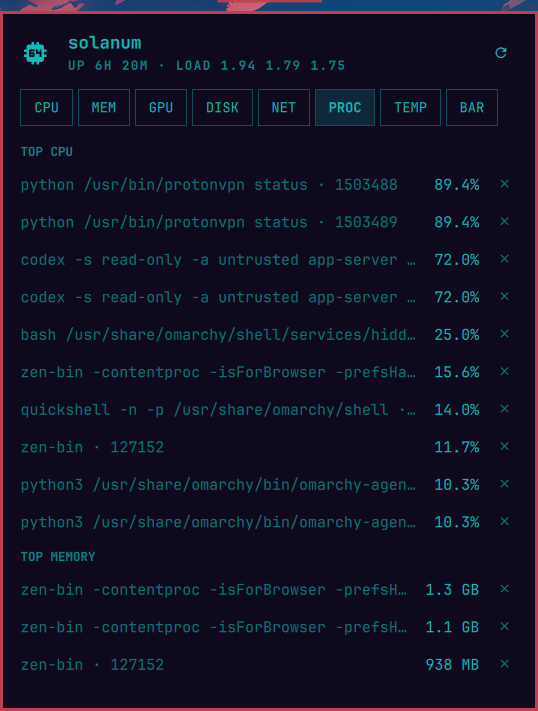
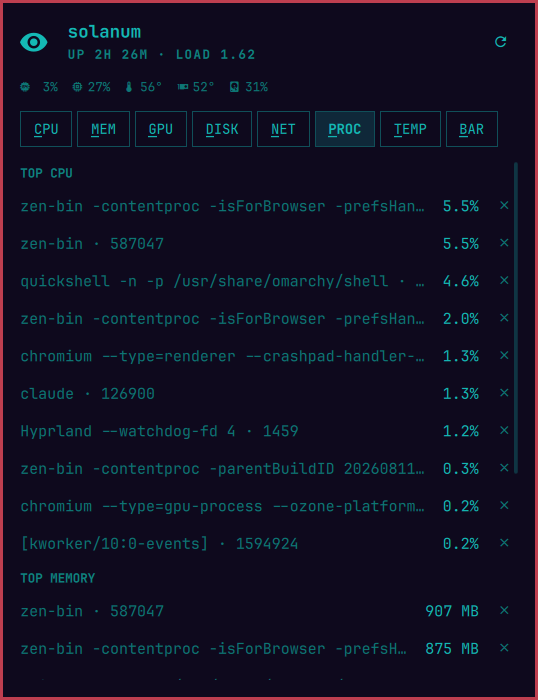
Refresh screenshots to the 0.8.0 UI, reorganize the README
All tab captures and the Okomart preview now show the watch row,
grouped TEMP sensors, per-process GPU, and the flat BAR tab. README:
alert behavior consolidated into one Alerts section (firing rules,
attribution, per-sensor thresholds, hook), sampling cost moved next to
the sampling internals, fixture contribution moved to the end.

Claude-Session: https://claude.ai/code/session_01SLbV1xcSEFZ6oc2p5b9Jci

diff --git a/README.md b/README.md
@@ -25,7 +25,7 @@ order in the panel's **BAR** tab; the choice persists to
 - **PROC** — top processes by CPU and by memory (full command lines), each with a terminate button (SIGTERM, after confirmation)
 - **TEMP** — every hwmon sensor, grouped by device with friendly names (CPU, GPU, NVMe with drive model, RAM, Wi-Fi, …), plus fan speeds; each sensor row can carry its own alert threshold, set inline, and noisy sensors can be hidden (hidden sensors keep alerting)
 - **BAT** — per-battery charge, status, power draw, health, and time estimate (tab appears only when a system battery exists)
-- **BAR** — toggles and reorder arrows for which metrics the bar shows, plus the last few fired alerts with timestamps; CPU and memory alerts name the process that likely caused them, and the CPU/MEM/GPU sparklines mark where in the history an alert fired
+- **BAR** — toggles and reorder arrows for which metrics the bar shows, the last few fired alerts with timestamps, and Argus's own measured sampling cost
 
 A watch row under the host name keeps every vital — CPU, RAM, CPU/GPU
 temperature, disk, battery — visible on every tab. A vital turns urgent
@@ -102,11 +102,30 @@ fallback for the CPU/GPU thresholds. Load average turns urgent when the
 discharging. Drive temperature is alert-only (it has no bar segment) and
 watches the hottest NVMe/SATA sensor.
 
-On top of those defaults, **any individual sensor** can carry its own
-alert threshold, set from the TEMP tab: the  button on a sensor row opens
-a stepper (−/+/off). A sensor over its limit renders its row in the urgent
-color and fires a notification with the usual 3-tick hold and cooldown.
-These persist in shell.json as a `sensorThresholds` map keyed by
+## Alerts
+
+With `alerts` on, a metric that stays past its urgent threshold for three
+consecutive ticks fires one desktop notification (via `notify-send`, so it
+renders through the Omarchy shell). Temperature and battery alerts use
+critical urgency; usage alerts are normal. Each metric then stays quiet
+for a 5-minute cooldown. Alerts evaluate every sampled metric, whether or
+not its bar segment is shown.
+
+CPU and memory alerts name their likely culprit — *"CPU usage at 100%
+(threshold 90%) — chromium 61%"* — from a process snapshot taken the
+moment the alert fires. A drive whose SMART health turns bad (critical
+warning, ≥90% wear, or media errors) alerts once per session.
+
+The last ten fired alerts are kept, with timestamps, at the bottom of the
+BAR tab — for the "did anything trip while I was away?" question that a
+vanished notification can't answer — and the CPU/MEM/GPU sparklines mark
+where in the history each alert fired.
+
+On top of the default thresholds, **any individual sensor** can carry its
+own alert threshold, set from the TEMP tab: the  button on a sensor row
+opens a stepper (−/+/off). A sensor over its limit renders its row in the
+urgent color and fires a notification with the usual 3-tick hold and
+cooldown. These persist in shell.json as a `sensorThresholds` map keyed by
 `chip|device|label`, so they survive reboots and hwmon renumbering.
 
 ### Alert hook
@@ -122,26 +141,6 @@ page a webhook:
 ```json
 "alertCommand": "curl -s -d \"$ARGUS_ALERT_TEXT\" https://ntfy.sh/my-box"
 ```
-
-### Argus's own cost
-
-The BAR tab shows what sampling actually costs (wall clock per tick,
-measured, not promised). The shell never blocks on it, and most of the
-wall time is the hwmon sensor bus itself — Super I/O chips take
-milliseconds per reading in the kernel — while the sampler's own CPU
-cost is ~10ms per tick (values are read with zero-fork bash builtins).
-
-## Alerts
-
-With `alerts` on, a metric that stays past its urgent threshold for three
-consecutive ticks fires one desktop notification (via `notify-send`, so it
-renders through the Omarchy shell), e.g. *"CPU temperature at 92°
-(threshold 85°)"*. Temperature and battery alerts use critical urgency;
-usage alerts are normal. Each metric then stays quiet for a 5-minute
-cooldown. Alerts evaluate every sampled metric, whether or not its bar
-segment is shown. The last ten fired alerts are kept, with timestamps, at
-the bottom of the BAR tab — for the "did anything trip while I was away?"
-question that a vanished notification can't answer.
 
 ## Fans
 
@@ -188,6 +187,24 @@ polling never keeps an Optimus dGPU awake, and shows the card as asleep.
 Hybrid AMD iGPU + NVIDIA dGPU systems list both, with the bar's GPU metrics
 following the card with the most VRAM.
 
+## Sampling
+
+One short bash sampler runs per refresh — shared by every bar surface, so
+multi-monitor setups still sample once. Hardware identity that cannot
+change while the shell runs (hostname, CPU model, disk models, GPU names)
+is sampled once at startup (`sample.sh static`), and top processes are
+sampled only while a panel is open, so `lsblk`/`lspci`/`ps` stay off the
+always-on hot path. `df` and `lsblk` run under `timeout` so a stale
+network mount degrades one tick instead of freezing the widget. GPU power
+draw comes from amdgpu's hwmon `power1_average` and nvidia-smi's
+`power.draw`. Usage deltas are computed in QML.
+
+The BAR tab shows what sampling actually costs (wall clock per tick,
+measured, not promised). The shell never blocks on it, and most of the
+wall time is the hwmon sensor bus itself — Super I/O chips take
+milliseconds per reading in the kernel — while the sampler's own CPU
+cost is ~10ms per tick (values are read with zero-fork bash builtins).
+
 ## Contributing a hardware fixture
 
 Argus aims to parse every machine's hwmon/GPU/battery layout correctly,
@@ -201,18 +218,6 @@ bash tests/make-fixture.sh > tests/fixtures/<cpu>-<gpu>.txt
 
 The script scrubs your hostname and process lists; review the output,
 then open a PR. One file makes your hardware a permanent regression test.
-
-## Sampling
-
-One short bash sampler runs per refresh — shared by every bar surface, so
-multi-monitor setups still sample once. Hardware identity that cannot
-change while the shell runs (hostname, CPU model, disk models, GPU names)
-is sampled once at startup (`sample.sh static`), and top processes are
-sampled only while a panel is open, so `lsblk`/`lspci`/`ps` stay off the
-always-on hot path. `df` and `lsblk` run under `timeout` so a stale
-network mount degrades one tick instead of freezing the widget. GPU power draw comes from amdgpu's hwmon
-`power1_average` and nvidia-smi's `power.draw`. Usage deltas are computed
-in QML.
 
 ---
 

diff --git a/CHANGELOG.md b/CHANGELOG.md
@@ -4,6 +4,15 @@ All notable changes to Argus are documented here. The format follows
 [Keep a Changelog](https://keepachangelog.com/en/1.1.0/), and versions
 follow [Semantic Versioning](https://semver.org/).
 
+## [Unreleased]
+
+### Changed
+- Refreshed every screenshot and the Okomart `preview.png` to the 0.8.0
+  UI (watch row, grouped TEMP, per-process GPU, flat BAR tab), and
+  reorganized the README: alert behavior — firing rules, attribution,
+  per-sensor thresholds, the hook — now lives in one Alerts section, and
+  sampling cost sits with the sampling internals.
+
 ## [0.8.0] — 2026-08-21
 
 ### Changed
